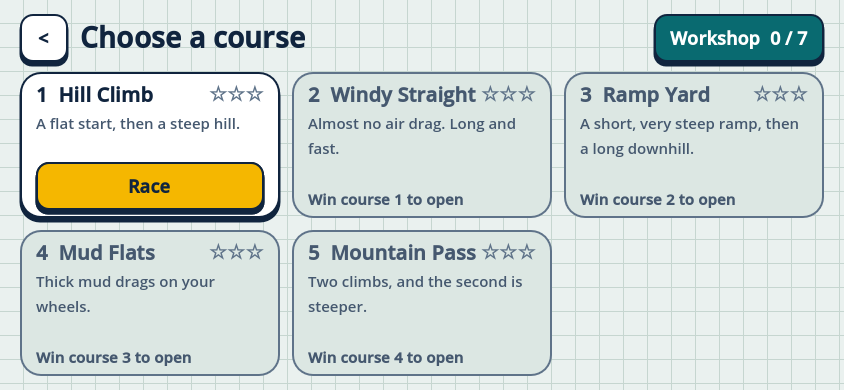
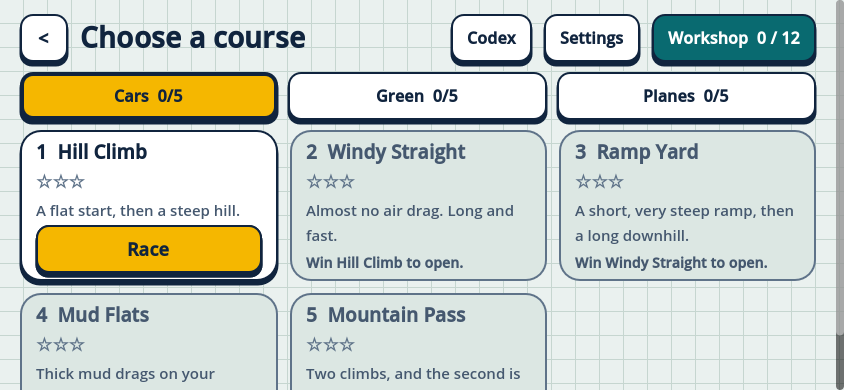
Review fixes: vibrate permission, resize-safe columns, shared helpers, cached crates, redraw guards; refresh screenshots
Claude-Session: https://claude.ai/code/session_014NyLKRcG6PiofgPfDKnkAk

diff --git a/docs/STORE_LISTING.md b/docs/STORE_LISTING.md
@@ -41,7 +41,7 @@ Primary: Education (games category: Puzzle). Secondary: Games.
 | User-generated content, chat | None |
 | In-app purchases, ads | None |
 | Collects personal data | No |
-| Uses location, camera, microphone, contacts | No |
+| Uses location, camera, microphone, contacts | No (vibration only) |
 | Links to the web or social media | None |
 
 Expected results: ESRB Everyone, PEGI 3, IARC generic 3+. Apple age rating 4+. Apple Kids Category age band: **9 to 11**. Fill in the questionnaires yourself and check the current wording; the answers above are what the game does today.
@@ -58,7 +58,7 @@ Expected results: ESRB Everyone, PEGI 3, IARC generic 3+. Apple age rating 4+. A
 
 - Target audience: age 9 to 12. Opt in to the Families program.
 - Data safety form: no data collected, no data shared, no encryption in transit question applies (no network use).
-- Permissions: none. The Android preset turns the internet permission off.
+- Permissions: vibration only (a normal permission that asks the user for nothing). The Android preset turns the internet permission off.
 - Content rating questionnaire: as in the table above.
 
 ## Screenshots to take (per device size)

diff --git a/game/README.md b/game/README.md
@@ -24,7 +24,7 @@ Ready-made unsigned builds for Windows, macOS, Linux and the web come from `.git
 | Parent zone | Behind a gate that asks for three digits written as words. Shows time played, courses, stars, what was learned with standards codes, and a privacy note. |
 | Settings | Day, Night Shift and High Contrast themes; sound, music, vibration; read aloud; large text; reduced motion; pests on or off; walk or list workshop; erase progress. |
 
-Progress and settings are saved on the device in `user://tinker_track_save.json`. The game uses no network, no permissions, no ads and no accounts.
+Progress and settings are saved on the device in `user://tinker_track_save.json`. The game uses no network, no ads and no accounts, and asks for no permission except vibration on Android.
 
 ## The courses
 

diff --git a/docs/TEST_PLAN.md b/docs/TEST_PLAN.md
@@ -39,7 +39,7 @@ Do these on one small Android phone (about 5 inch), one large phone, one iPhone,
 
 **Kids and safety**
 - [ ] The Parent gate cannot be passed by a nine-year-old who has not been told how.
-- [ ] Confirm the installed app requests no permissions and makes no network calls (check with the device's privacy report or a network monitor).
+- [ ] Confirm the installed app requests only the vibrate permission and makes no network calls (check with the device's privacy report or a network monitor).
 
 ## Playtest with children (see `ROADMAP.md`)
 

diff --git a/docs/PRIVACY_POLICY.md b/docs/PRIVACY_POLICY.md
@@ -16,7 +16,7 @@ The game saves your child's progress on the device: which crates are solved, sta
 
 ## Permissions
 
-The game asks for no permissions. It does not use the internet, camera, microphone, contacts, photos or location. It may vibrate the device for feedback; this can be switched off in Settings.
+The game asks for one permission on Android: to vibrate the device for feedback, which can be switched off in Settings. It does not use the internet, camera, microphone, contacts, photos or location.
 
 ## Reading aloud
 
